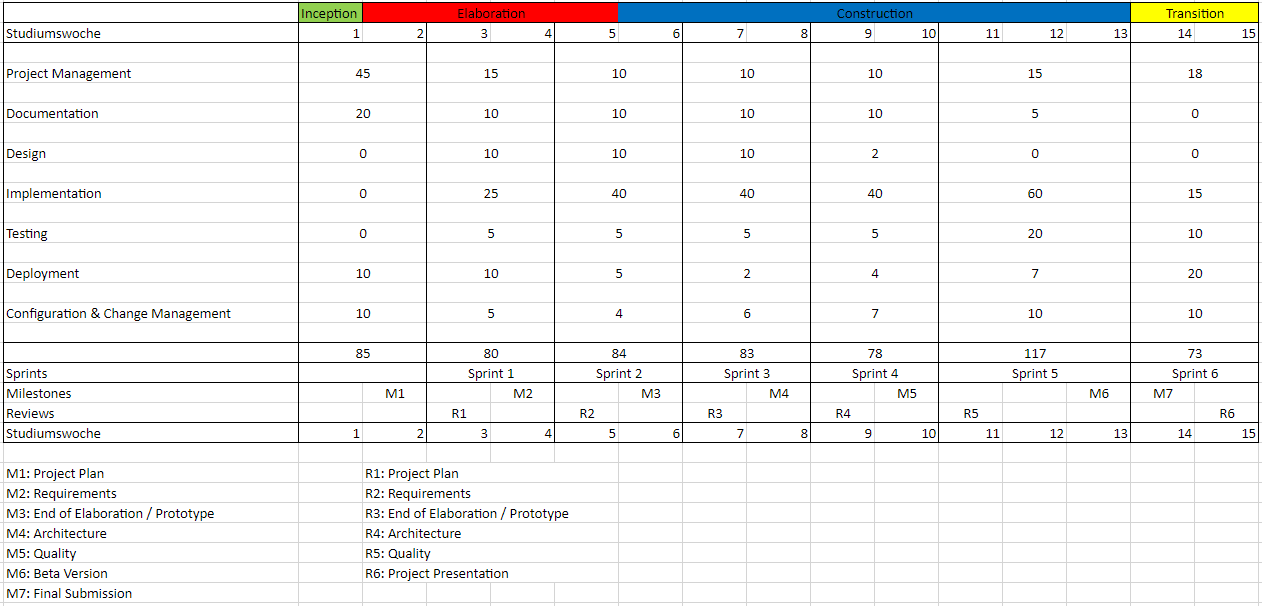
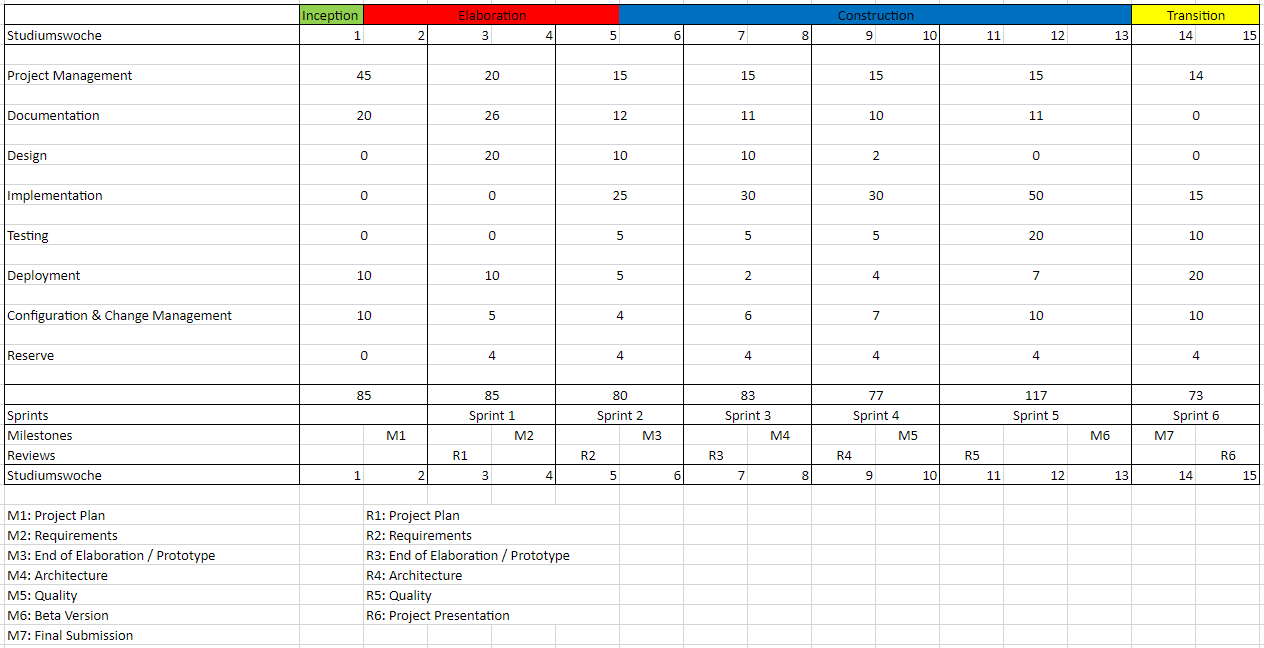
fix(risks & rup-time-table): add risks, calculate reserve, plan reserve in rup

Changed region(s): [[0.0, 0.0, 1.0, 1.0]]

diff --git a/documentation/projektplan/risikoanalyse.md b/documentation/projektplan/risikoanalyse.md
@@ -19,17 +19,57 @@ Vorlesung SE1 FS2021: Woche 1 - W01 - Introduction and Project Planning
 - Projekt: CapWatch
 - Erstellt am: 02.03.2021
 - Autor: Christoph Scheiwiller
-- Gewichteter Schaden: *14*
+- Gewichteter Schaden Projekt: *29 Stunden*
+- Durchschnitt Schadenspotenzial: *4 Stunden**
 
-| Nr | Titel | Beschreibung | Schadenspotenzial [1-3] | Eintritts&shy;wahrscheinlichkeit [1-3] | Gewichteter Schaden* [1-9] | Vorbeugung | Verhalten beim Eintreten |
-|----|-------|--------------|------------------|-----------------------------|---------------------|------------|--------------------------|
-| R1 | Internetausfall | Durch die Coronapandemie müssen alle Besprechungen online durchgeführt werden. Dabei sind wir auf eine funktionierende Internetverbindung angewiesen.       | *1*             | *2*                       | *2*                 | Dokumentation relevanter Inhalte während Besprechungen      | Meetingprotokoll lesen                    |
-| R2 | Softwarearchitektur | Fehler im Designprozess werden erst während der Umsetzung bemerkt.        | *1*             | *2*                       | *2*                 | Prototyp erstellen      | Fehleranalyse & Überarbeitung der Softwarearchitektur                    |
-| R3 | Ungenügende Spezifikation | Anforderungen wurden nicht klar definiert und müssen während der Implementierung überarbeitet werden oder in den nächsten Sprint verschoben werden        | *2*              | *2*                       | *4*                 | Anforderung reviewen      | Anforderungsanalyse überarbeiten                    |
-| R4 | Zeitmanagement | Die Geplante Zeit für ein Feature wird massiv überschritten        | *3*              | *2*                       | *6*                 | Gemeinsames schätzen der Aufwände      | Verschiebung von Features in späteren Sprint                    |
-|    |       |              |                  | **Summe**                   | *14*                |            |                          |
-**Gewichteter Schaden = Schadenspotenzial * Eintritts&shy;wahrscheinlichkeit*
+```eval_rst
++----+----------------------+-------------------------------------------+-------------------+-----------------------------+-----------------------+--------------------------+-------------------------------+
+| Nr | Titel                | Beschreibung                              | Schadenspotenzial | Eintrittswahrschein- | Gewichteter   | Vorbeugung               | Verhalten beim Eintreten      |
+|                           |                                           |     [1-3] Stunden | lichkeit       [1-3] | Schaden**     |                          |                               |
+|                           |                                           |                   |                      | [1-9] Stunden |                          |                               |
++====+======================+===========================================+===================+======================+===============+==========================+===============================+
+| R1 | Internetausfall      | Durch die Coronapandemie müssen alle      |                 1 |                    2 |             2 | Dokumentation relevanter | Meetingprotokoll lesen        |
+|    |                      | Besprechungen online durchgeführt werden. |                   |                      |               | Inhalte während          |                               |
+|    |                      | Dabei sind wir auf eine funktionierende   |                   |                      |               | Besprechungen            |                               |
+|    |                      | Internetverbindung angewiesen.            |                   |                      |               |                          |                               |
++----+----------------------+-------------------------------------------+-------------------+----------------------+---------------+--------------------------+-------------------------------+
+| R2 | Softwarearchitektur  | Fehler im Designprozess werden erst       |                 1 |                    2 |             2 | Prototyp erstellen       | Fehleranalyse & Überarbeitung |
+|    |                      | während der Umsetzung bemerkt.            |                   |                      |               |                          | der Softwarearchitektur       |
++----+----------------------+-------------------------------------------+-------------------+----------------------+---------------+--------------------------+-------------------------------+
+| R3 | Ungenügende          | Anforderungen wurden nicht klar definiert |                 2 |                    2 |             4 | Anforderung reviewen     | Anforderungsanalyse           |
+|    | Spezifikation        | und müssen während der Implementierung    |                   |                      |               |                          | überarbeiten                  |
+|    |                      | überarbeitet werden oder in den nächsten  |                   |                      |               |                          |                               |
+|    |                      | Sprint verschoben werden.                 |                   |                      |               |                          |                               |
++----+----------------------+-------------------------------------------+-------------------+----------------------+---------------+--------------------------+-------------------------------+
+| R4 | Zeitmanagement       | Die Geplante Zeit für ein Feature wird    |                 3 |                    2 |             6 | Gemeinsames schätzen     | Verschiebung von Features     |
+|    |                      | massiv überschritten.                     |                   |                      |               | der Aufwände             | in späteren Sprint            |
++----+----------------------+-------------------------------------------+-------------------+----------------------+---------------+--------------------------+-------------------------------+
+| R5 | Backend Technologie  | Das Backend wir in C# geschrieben,        |                 3 |                    1 |             3 | keine Massnahmen         |                               |
+|    |                      | es kann auf viel bestehendes Wissen       |                   |                      |               |                          |                               |
+|    |                      | zurückgegriffen werden.                   |                   |                      |               |                          |                               |
++----+----------------------+-------------------------------------------+-------------------+----------------------+---------------+--------------------------+-------------------------------+
+| R6 | Frontend Technologie | Das Frontend wird mit React implementiert,|                 3 |                    2 |             6 | Einlesen in React        | Erlernen der Technologie auch |
+|    |                      | damit wurde bis anhin kaum Erfahrung      |                   |                      |               | Dokumentation            | auf private Zeit um den       |
+|    |                      | gesammelt.                                |                   |                      |               |                          | Projektplan nicht zu gefährden|
++----+----------------------+-------------------------------------------+-------------------+----------------------+---------------+--------------------------+-------------------------------+
+| R7 | Organisation         | Termingerechte Abgabe wird nicht erreicht.|                 3 |                    1 |             3 | Alle grossen Tasks bis   | Abgabe ist zwingend           |
+|    |                      |                                           |                   |                      |               | eine Woche vor Abgabe    | einzuhalten!                  |
+|    |                      |                                           |                   |                      |               | bereit zur Besprechung   |                               |
+|    |                      |                                           |                   |                      |               | im Team.                 |                               |
++----+----------------------+-------------------------------------------+-------------------+----------------------+---------------+--------------------------+-------------------------------+
+| R8 | Ausfall Teammitglied | Ein Teammitglied fällt für eine bestimme/ |                 3 |                    1 |             3 | keine Massnahmen         | Aufgaben auf andere           |
+|    |                      | unbestimmte Zeit aus.                     |                   |                      |               |                          | Teammitglieder verteilen oder |    
+|    |                      |                                           |                   |                      |               |                          | Sprint Umfang kürzen.         |
++----+----------------------+-------------------------------------------+-------------------+----------------------+---------------+--------------------------+-------------------------------+
+|    |                      |                                           |                   |                Summe |            29 |                          |                               |
++----+----------------------+-------------------------------------------+-------------------+----------------------+---------------+--------------------------+-------------------------------+
+```
+**Durchschnitt Schadenspotenzial (Gerundet) = Gewichteter Schaden Projekt / Anzahl Risiken* \
+***Gewichteter Schaden = Schadenspotenzial * Eintritts&shy;wahrscheinlichkeit*
 
 ## Risiko Überwachung
 
 Die Risiken sollen nach jedem Sprint überprüft werden.
+
+Risikoüberprüfung durchgeführt:
+- 13.03.2021 (Christoph Scheiwiller)

diff --git a/documentation/projektplan/projektplan.md b/documentation/projektplan/projektplan.md
@@ -301,13 +301,18 @@ Die Risikoanalyse wurde im Dokument risikoanalyse.md detailliert beschreiben.
 
 ### Umgang mit Risiken
 
-Die Risiken R1-R3 haben ein geringes Schadenspotenzial und werden deshalb nicht genauer angeschaut. Risiko R4
-Zeitmanagement mit einem gewichteten Schaden von 6 macht fast die Hälfte des möglichen Schadenspotenzials aus, deshalb
-wurde die Zeitplanung genau besprochen. Im weiteren Projektverlauf soll dem Risiko R4 Zeitmanagement bei der
-Aufwandsschätzung der Stories Beachtung geschenkt und ausreichende Reserven in die Sprints eingeplant werden. Mit oben
-genannten Massnahmen sind wir zuversichtlich das Risiko möglichst gut im Griff zu haben. Die Risiken werden nach jedem
-Sprint ausgewertet, dabei können Risiken wegfallen und neue hinzukommen. Dadurch soll sichergestellt werden, dass
-mögliche neue Risiken beachtet und eingeschätzt werden und nicht mehr relevante Risiken entfernt werden.
+Aufgrund er Risikoanalyse wurde ein durchschnittliches Schadenspotenzial von vier Stunden berechnet, desshalb werden
+in jedem Sprint vier Stunden als Reserve eingerechnet um sicherstellen zu können, dass der Projektplan eingehalten werden kann.
+
+Risiken welche einen gewichteten Schaden grosser als die geplanten vier Stunden Reserve aufweisen werden hier nochmals im Detail angeschaut.
+R4 Zeitmanagement: Im Sprint Planning sollen Tasks, welche im nächsten Sprint eingeplant wurden, von den Entwicklern
+ausführlich analysiert und diskutiert werden. Danach wird gemeinsam eine Aufwandsschätzung vorgenommen, um eine zuverlässige Schätzung zu erhalten.
+R6 Frontend Technologie: Aktuell ist in der Frontend-Technologie React kaum Wissen vorhanden, wir haben uns aber trotzdem dafür entschieden
+das Frontend mit React zu implementieren. Um das Risiko in den Griff zu kriegen wird von den Teammitgliedern erwartet,
+dass sich jeder in die React Dokumentation einliest, um sich in die Grundlagen einzuarbeiten.
+Zusätzlich wird ein Prototyp in React erstellt, um erste Erfahrungen zu sammeln und Probleme frühzeitig zu erkennen.
+Im Team wurde gemeinsam festgelegt, dass bei erheblichem Mehraufwand durch React der Know-How aufbau auch in der
+Freizeit erfolgen muss und nicht zulasten des Projektes CapWatch geht.
 
 ## Arbeitspakete
 
